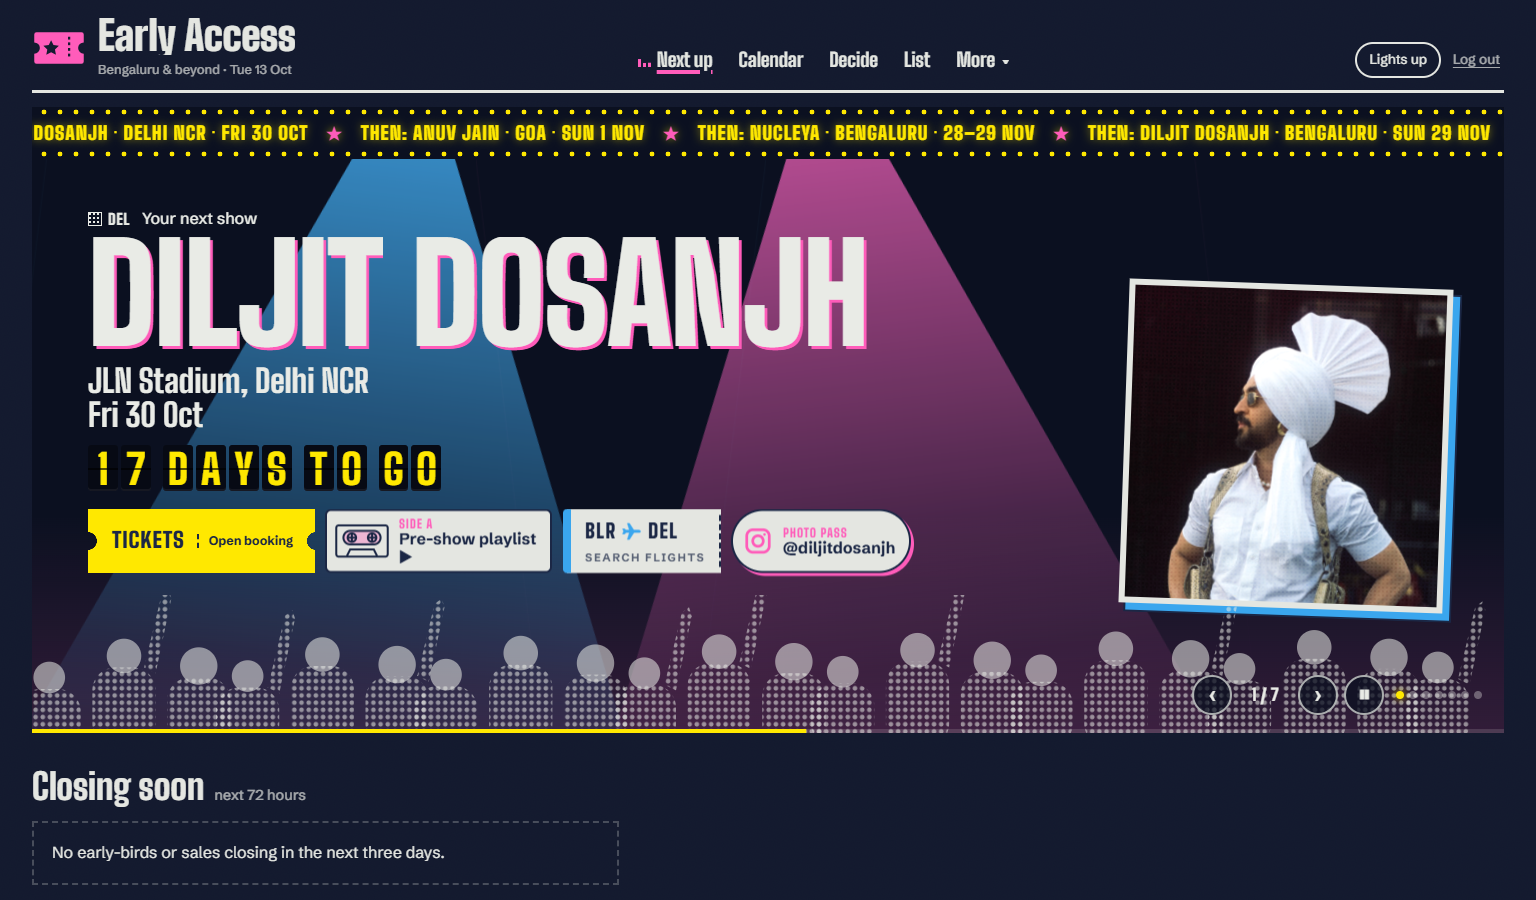
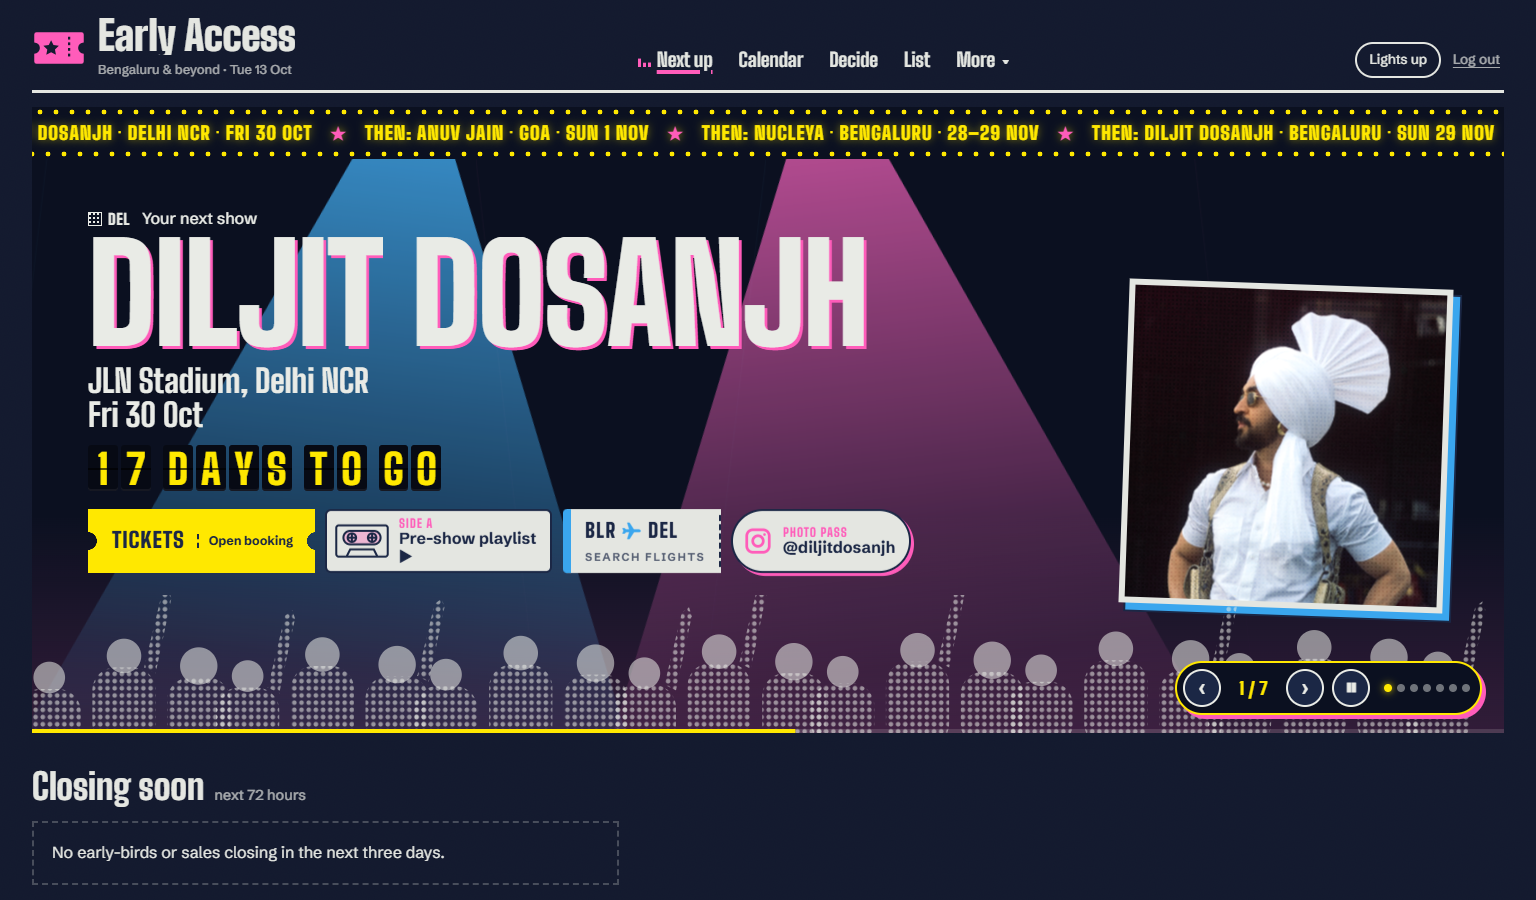
Carousel controls as a solid navy panel so the counter and arrows don't blend into the crowd; secrets login --keep re-hashes a hand-edited password

diff --git a/scripts/secrets.ts b/scripts/secrets.ts
@@ -194,14 +194,20 @@ if (cmd === "set" && names.includes("--clipboard")) {
 } else if (cmd === "login") {
   // Username + password for the owner's dashboard. The password stays in .env (LOGIN_PASSWORD, for
   // you to share) and is copied to the clipboard; only its scrypt hash goes to Vercel.
+  // `login --keep` re-hashes the LOGIN_PASSWORD already in .env (after you edit it by hand).
+  const keep = names.includes("--keep");
   const username = names.find((n) => /^[a-z0-9._-]{3,32}$/i.test(n)) ?? env.get("LOGIN_USERNAME") ?? "earlyaccess";
   const abc = "abcdefghjkmnpqrstuvwxyzABCDEFGHJKLMNPQRSTUVWXYZ23456789";
   const bytes = randomBytes(16);
-  const password = Array.from(bytes, (b) => abc[b % abc.length]).join("").replace(/(.{4})(?!$)/g, "$1-");
+  const password = keep ? (env.get("LOGIN_PASSWORD") ?? "") : Array.from(bytes, (b) => abc[b % abc.length]).join("").replace(/(.{4})(?!$)/g, "$1-");
+  if (password.length < 8) {
+    console.log("LOGIN_PASSWORD in .env must be at least 8 characters.");
+    process.exit(1);
+  }
   const salt = randomBytes(16);
   const hash = scryptSync(password, salt, 32);
   writeEnv({ LOGIN_USERNAME: username, LOGIN_PASSWORD: password, LOGIN_PASSWORD_HASH: `scrypt$${salt.toString("base64url")}$${hash.toString("base64url")}` });
-  const copied = process.platform === "win32" && spawnSync("clip", { input: password }).status === 0;
+  const copied = !keep && process.platform === "win32" && spawnSync("clip", { input: password }).status === 0;
   console.log(`Saved login "${username}" to .env (LOGIN_PASSWORD).${copied ? " The password is on your clipboard." : ""}`);
   console.log("Next: pnpm secrets push-vercel LOGIN_USERNAME LOGIN_PASSWORD_HASH (then redeploy).");
 } else if (cmd === "generate") {

diff --git a/apps/web/app/stage.css b/apps/web/app/stage.css
@@ -1750,3 +1750,31 @@
     animation: none;
   }
 }
+
+/* ---------- carousel controls: a solid mixing-desk panel over the crowd ---------- */
+/* Same navy-and-bulb look as the marquee in both themes, so the counter and arrows never blend
+   into the halftone crowd behind them. */
+.stage-controls {
+  gap: 8px;
+  padding: 6px 10px 6px 6px;
+  background: #0b1020;
+  color: var(--bulb);
+  border: 2px solid var(--bulb);
+  border-radius: 999px;
+  box-shadow: 4px 4px 0 var(--pink);
+}
+.sc-btn {
+  width: 38px;
+  height: 38px;
+  border: 2px solid #e9ebe6;
+  background: #1b2745;
+  color: #e9ebe6;
+}
+.sc-count {
+  color: var(--bulb);
+  font-size: 1.1rem;
+  min-width: 2.8em;
+}
+.sc-dots i {
+  background: rgb(233 235 230 / 0.45);
+}
